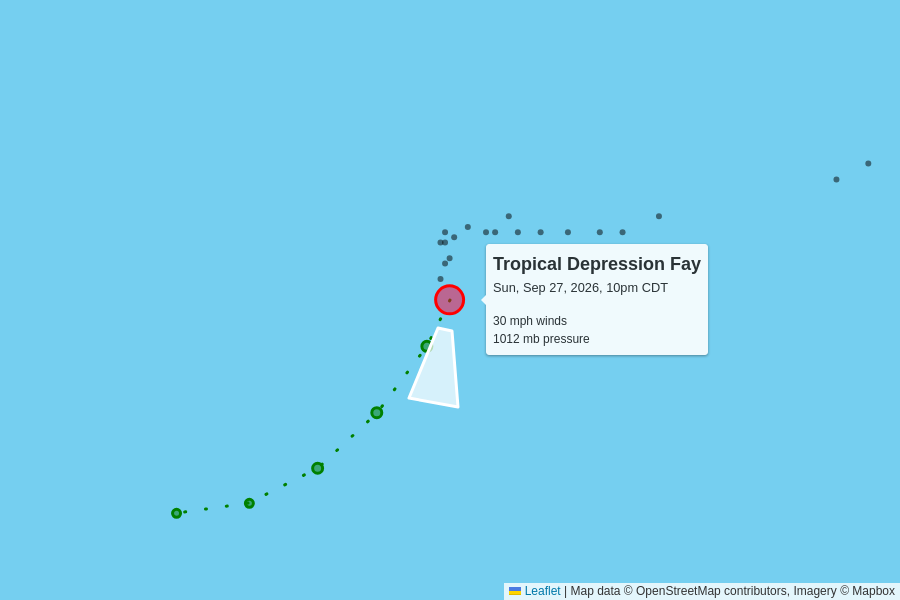
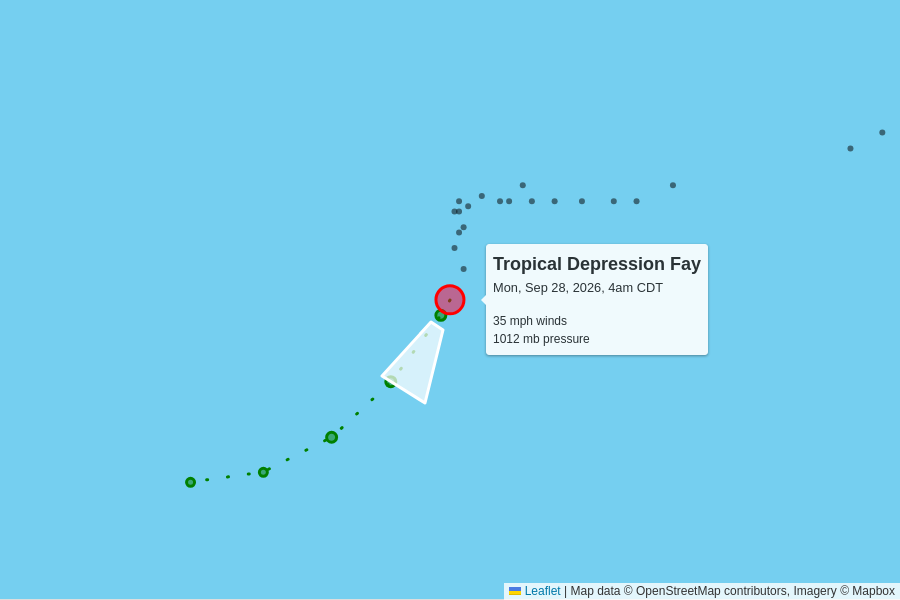
automatic update

diff --git a/docs/2026.html b/docs/2026.html
@@ -45,13 +45,13 @@
       <grid-container>
           <grid-row>
             <script type="text/json" id="storm_data_AL062026">
-              {"pressure":[{"timestamp":"2026-09-19T15:00:00.000Z","value":1009},{"timestamp":"2026-09-19T21:00:00.000Z","value":1007},{"timestamp":"2026-09-20T03:00:00.000Z","value":1007},{"timestamp":"2026-09-20T09:00:00.000Z","value":1004},{"timestamp":"2026-09-20T15:00:00.000Z","value":1004},{"timestamp":"2026-09-20T21:00:00.000Z","value":999},{"timestamp":"2026-09-21T03:00:00.000Z","value":995},{"timestamp":"2026-09-21T09:00:00.000Z","value":997},{"timestamp":"2026-09-21T15:00:00.000Z","value":1000},{"timestamp":"2026-09-21T21:00:00.000Z","value":1004},{"timestamp":"2026-09-22T03:00:00.000Z","value":1008},{"timestamp":"2026-09-22T09:00:00.000Z","value":1009},{"timestamp":"2026-09-22T15:00:00.000Z","value":1010},{"timestamp":"2026-09-22T21:00:00.000Z","value":1011},{"timestamp":"2026-09-23T21:00:00.000Z","value":1011},{"timestamp":"2026-09-24T03:00:00.000Z","value":1010},{"timestamp":"2026-09-24T09:00:00.000Z","value":1010},{"timestamp":"2026-09-24T15:00:00.000Z","value":1005},{"timestamp":"2026-09-24T21:00:00.000Z","value":1005},{"timestamp":"2026-09-25T03:00:00.000Z","value":1005},{"timestamp":"2026-09-25T09:00:00.000Z","value":1004},{"timestamp":"2026-09-25T15:00:00.000Z","value":1002},{"timestamp":"2026-09-25T21:00:00.000Z","value":1004},{"timestamp":"2026-09-26T03:00:00.000Z","value":1006},{"timestamp":"2026-09-26T09:00:00.000Z","value":1009},{"timestamp":"2026-09-26T15:00:00.000Z","value":1009},{"timestamp":"2026-09-26T21:00:00.000Z","value":1009},{"timestamp":"2026-09-27T03:00:00.000Z","value":1010},{"timestamp":"2026-09-27T09:00:00.000Z","value":1010},{"timestamp":"2026-09-27T15:00:00.000Z","value":1010},{"timestamp":"2026-09-27T21:00:00.000Z","value":1011},{"timestamp":"2026-09-28T03:00:00.000Z","value":1012}],"wind":[{"timestamp":"2026-09-19T15:00:00.000Z","value":35},{"timestamp":"2026-09-19T21:00:00.000Z","value":35},{"timestamp":"2026-09-20T03:00:00.000Z","value":35},{"timestamp":"2026-09-20T09:00:00.000Z","value":45},{"timestamp":"2026-09-20T15:00:00.000Z","value":60},{"timestamp":"2026-09-20T21:00:00.000Z","value":65},{"timestamp":"2026-09-21T03:00:00.000Z","value":70},{"timestamp":"2026-09-21T09:00:00.000Z","value":65},{"timestamp":"2026-09-21T15:00:00.000Z","value":50},{"timestamp":"2026-09-21T21:00:00.000Z","value":45},{"timestamp":"2026-09-22T03:00:00.000Z","value":40},{"timestamp":"2026-09-22T09:00:00.000Z","value":40},{"timestamp":"2026-09-22T15:00:00.000Z","value":35},{"timestamp":"2026-09-22T21:00:00.000Z","value":35},{"timestamp":"2026-09-23T21:00:00.000Z","value":35},{"timestamp":"2026-09-24T03:00:00.000Z","value":40},{"timestamp":"2026-09-24T09:00:00.000Z","value":40},{"timestamp":"2026-09-24T15:00:00.000Z","value":50},{"timestamp":"2026-09-24T21:00:00.000Z","value":50},{"timestamp":"2026-09-25T03:00:00.000Z","value":50},{"timestamp":"2026-09-25T09:00:00.000Z","value":50},{"timestamp":"2026-09-25T15:00:00.000Z","value":60},{"timestamp":"2026-09-25T21:00:00.000Z","value":50},{"timestamp":"2026-09-26T03:00:00.000Z","value":40},{"timestamp":"2026-09-26T09:00:00.000Z","value":35},{"timestamp":"2026-09-26T15:00:00.000Z","value":35},{"timestamp":"2026-09-26T21:00:00.000Z","value":35},{"timestamp":"2026-09-27T03:00:00.000Z","value":35},{"timestamp":"2026-09-27T09:00:00.000Z","value":35},{"timestamp":"2026-09-27T15:00:00.000Z","value":35},{"timestamp":"2026-09-27T21:00:00.000Z","value":35},{"timestamp":"2026-09-28T03:00:00.000Z","value":30}]}
+              {"pressure":[{"timestamp":"2026-09-19T15:00:00.000Z","value":1009},{"timestamp":"2026-09-19T21:00:00.000Z","value":1007},{"timestamp":"2026-09-20T03:00:00.000Z","value":1007},{"timestamp":"2026-09-20T09:00:00.000Z","value":1004},{"timestamp":"2026-09-20T15:00:00.000Z","value":1004},{"timestamp":"2026-09-20T21:00:00.000Z","value":999},{"timestamp":"2026-09-21T03:00:00.000Z","value":995},{"timestamp":"2026-09-21T09:00:00.000Z","value":997},{"timestamp":"2026-09-21T15:00:00.000Z","value":1000},{"timestamp":"2026-09-21T21:00:00.000Z","value":1004},{"timestamp":"2026-09-22T03:00:00.000Z","value":1008},{"timestamp":"2026-09-22T09:00:00.000Z","value":1009},{"timestamp":"2026-09-22T15:00:00.000Z","value":1010},{"timestamp":"2026-09-22T21:00:00.000Z","value":1011},{"timestamp":"2026-09-23T21:00:00.000Z","value":1011},{"timestamp":"2026-09-24T03:00:00.000Z","value":1010},{"timestamp":"2026-09-24T09:00:00.000Z","value":1010},{"timestamp":"2026-09-24T15:00:00.000Z","value":1005},{"timestamp":"2026-09-24T21:00:00.000Z","value":1005},{"timestamp":"2026-09-25T03:00:00.000Z","value":1005},{"timestamp":"2026-09-25T09:00:00.000Z","value":1004},{"timestamp":"2026-09-25T15:00:00.000Z","value":1002},{"timestamp":"2026-09-25T21:00:00.000Z","value":1004},{"timestamp":"2026-09-26T03:00:00.000Z","value":1006},{"timestamp":"2026-09-26T09:00:00.000Z","value":1009},{"timestamp":"2026-09-26T15:00:00.000Z","value":1009},{"timestamp":"2026-09-26T21:00:00.000Z","value":1009},{"timestamp":"2026-09-27T03:00:00.000Z","value":1010},{"timestamp":"2026-09-27T09:00:00.000Z","value":1010},{"timestamp":"2026-09-27T15:00:00.000Z","value":1010},{"timestamp":"2026-09-27T21:00:00.000Z","value":1011},{"timestamp":"2026-09-28T03:00:00.000Z","value":1012},{"timestamp":"2026-09-28T09:00:00.000Z","value":1012}],"wind":[{"timestamp":"2026-09-19T15:00:00.000Z","value":35},{"timestamp":"2026-09-19T21:00:00.000Z","value":35},{"timestamp":"2026-09-20T03:00:00.000Z","value":35},{"timestamp":"2026-09-20T09:00:00.000Z","value":45},{"timestamp":"2026-09-20T15:00:00.000Z","value":60},{"timestamp":"2026-09-20T21:00:00.000Z","value":65},{"timestamp":"2026-09-21T03:00:00.000Z","value":70},{"timestamp":"2026-09-21T09:00:00.000Z","value":65},{"timestamp":"2026-09-21T15:00:00.000Z","value":50},{"timestamp":"2026-09-21T21:00:00.000Z","value":45},{"timestamp":"2026-09-22T03:00:00.000Z","value":40},{"timestamp":"2026-09-22T09:00:00.000Z","value":40},{"timestamp":"2026-09-22T15:00:00.000Z","value":35},{"timestamp":"2026-09-22T21:00:00.000Z","value":35},{"timestamp":"2026-09-23T21:00:00.000Z","value":35},{"timestamp":"2026-09-24T03:00:00.000Z","value":40},{"timestamp":"2026-09-24T09:00:00.000Z","value":40},{"timestamp":"2026-09-24T15:00:00.000Z","value":50},{"timestamp":"2026-09-24T21:00:00.000Z","value":50},{"timestamp":"2026-09-25T03:00:00.000Z","value":50},{"timestamp":"2026-09-25T09:00:00.000Z","value":50},{"timestamp":"2026-09-25T15:00:00.000Z","value":60},{"timestamp":"2026-09-25T21:00:00.000Z","value":50},{"timestamp":"2026-09-26T03:00:00.000Z","value":40},{"timestamp":"2026-09-26T09:00:00.000Z","value":35},{"timestamp":"2026-09-26T15:00:00.000Z","value":35},{"timestamp":"2026-09-26T21:00:00.000Z","value":35},{"timestamp":"2026-09-27T03:00:00.000Z","value":35},{"timestamp":"2026-09-27T09:00:00.000Z","value":35},{"timestamp":"2026-09-27T15:00:00.000Z","value":35},{"timestamp":"2026-09-27T21:00:00.000Z","value":35},{"timestamp":"2026-09-28T03:00:00.000Z","value":30},{"timestamp":"2026-09-28T09:00:00.000Z","value":35}]}
             </script>              <grid-container class="storm">
                 <grid-row onClick="toggle('storm_AL062026')">
                   <h2>
                     Tropical Depression Fay
                     <div class="updated">
-                      last updated <time datetime="2026-09-28T03:00:00.000Z">2026-09-28T03:00:00.000Z</time>
+                      last updated <time datetime="2026-09-28T09:00:00.000Z">2026-09-28T09:00:00.000Z</time>
                     </div>
                   </h2>
                 </grid-row>
@@ -67,19 +67,19 @@
                       </tr>
                       <tr>
                         <td>
-                          30 mph
+                          35 mph
                           <br>
-                          -5 mph since last update
+                          +5 mph since last update
                         </td>
                         <td>
                           1012 mb
                           <br>
-                          +1 mb since last update
+                          0 mb since last update
                         </td>
                         <td>
-                          6 mph to the south
+                          7 mph to the south-southwest
                           <br>
-                          <span style="display: inline-block; font-size: 1.5em; transform: rotate(190deg);">↑</span>
+                          <span style="display: inline-block; font-size: 1.5em; transform: rotate(210deg);">↑</span>
                         </td>
                         <td>
                           <a href="https://raw.githubusercontent.com/mgwalker/atlantic-hurricanes/main/data/csv/AL062026.csv">AL062026.csv</a>

diff --git a/docs/index.html b/docs/index.html
@@ -45,13 +45,13 @@
       <grid-container>
           <grid-row>
             <script type="text/json" id="storm_data_AL062026">
-              {"pressure":[{"timestamp":"2026-09-19T15:00:00.000Z","value":1009},{"timestamp":"2026-09-19T21:00:00.000Z","value":1007},{"timestamp":"2026-09-20T03:00:00.000Z","value":1007},{"timestamp":"2026-09-20T09:00:00.000Z","value":1004},{"timestamp":"2026-09-20T15:00:00.000Z","value":1004},{"timestamp":"2026-09-20T21:00:00.000Z","value":999},{"timestamp":"2026-09-21T03:00:00.000Z","value":995},{"timestamp":"2026-09-21T09:00:00.000Z","value":997},{"timestamp":"2026-09-21T15:00:00.000Z","value":1000},{"timestamp":"2026-09-21T21:00:00.000Z","value":1004},{"timestamp":"2026-09-22T03:00:00.000Z","value":1008},{"timestamp":"2026-09-22T09:00:00.000Z","value":1009},{"timestamp":"2026-09-22T15:00:00.000Z","value":1010},{"timestamp":"2026-09-22T21:00:00.000Z","value":1011},{"timestamp":"2026-09-23T21:00:00.000Z","value":1011},{"timestamp":"2026-09-24T03:00:00.000Z","value":1010},{"timestamp":"2026-09-24T09:00:00.000Z","value":1010},{"timestamp":"2026-09-24T15:00:00.000Z","value":1005},{"timestamp":"2026-09-24T21:00:00.000Z","value":1005},{"timestamp":"2026-09-25T03:00:00.000Z","value":1005},{"timestamp":"2026-09-25T09:00:00.000Z","value":1004},{"timestamp":"2026-09-25T15:00:00.000Z","value":1002},{"timestamp":"2026-09-25T21:00:00.000Z","value":1004},{"timestamp":"2026-09-26T03:00:00.000Z","value":1006},{"timestamp":"2026-09-26T09:00:00.000Z","value":1009},{"timestamp":"2026-09-26T15:00:00.000Z","value":1009},{"timestamp":"2026-09-26T21:00:00.000Z","value":1009},{"timestamp":"2026-09-27T03:00:00.000Z","value":1010},{"timestamp":"2026-09-27T09:00:00.000Z","value":1010},{"timestamp":"2026-09-27T15:00:00.000Z","value":1010},{"timestamp":"2026-09-27T21:00:00.000Z","value":1011},{"timestamp":"2026-09-28T03:00:00.000Z","value":1012}],"wind":[{"timestamp":"2026-09-19T15:00:00.000Z","value":35},{"timestamp":"2026-09-19T21:00:00.000Z","value":35},{"timestamp":"2026-09-20T03:00:00.000Z","value":35},{"timestamp":"2026-09-20T09:00:00.000Z","value":45},{"timestamp":"2026-09-20T15:00:00.000Z","value":60},{"timestamp":"2026-09-20T21:00:00.000Z","value":65},{"timestamp":"2026-09-21T03:00:00.000Z","value":70},{"timestamp":"2026-09-21T09:00:00.000Z","value":65},{"timestamp":"2026-09-21T15:00:00.000Z","value":50},{"timestamp":"2026-09-21T21:00:00.000Z","value":45},{"timestamp":"2026-09-22T03:00:00.000Z","value":40},{"timestamp":"2026-09-22T09:00:00.000Z","value":40},{"timestamp":"2026-09-22T15:00:00.000Z","value":35},{"timestamp":"2026-09-22T21:00:00.000Z","value":35},{"timestamp":"2026-09-23T21:00:00.000Z","value":35},{"timestamp":"2026-09-24T03:00:00.000Z","value":40},{"timestamp":"2026-09-24T09:00:00.000Z","value":40},{"timestamp":"2026-09-24T15:00:00.000Z","value":50},{"timestamp":"2026-09-24T21:00:00.000Z","value":50},{"timestamp":"2026-09-25T03:00:00.000Z","value":50},{"timestamp":"2026-09-25T09:00:00.000Z","value":50},{"timestamp":"2026-09-25T15:00:00.000Z","value":60},{"timestamp":"2026-09-25T21:00:00.000Z","value":50},{"timestamp":"2026-09-26T03:00:00.000Z","value":40},{"timestamp":"2026-09-26T09:00:00.000Z","value":35},{"timestamp":"2026-09-26T15:00:00.000Z","value":35},{"timestamp":"2026-09-26T21:00:00.000Z","value":35},{"timestamp":"2026-09-27T03:00:00.000Z","value":35},{"timestamp":"2026-09-27T09:00:00.000Z","value":35},{"timestamp":"2026-09-27T15:00:00.000Z","value":35},{"timestamp":"2026-09-27T21:00:00.000Z","value":35},{"timestamp":"2026-09-28T03:00:00.000Z","value":30}]}
+              {"pressure":[{"timestamp":"2026-09-19T15:00:00.000Z","value":1009},{"timestamp":"2026-09-19T21:00:00.000Z","value":1007},{"timestamp":"2026-09-20T03:00:00.000Z","value":1007},{"timestamp":"2026-09-20T09:00:00.000Z","value":1004},{"timestamp":"2026-09-20T15:00:00.000Z","value":1004},{"timestamp":"2026-09-20T21:00:00.000Z","value":999},{"timestamp":"2026-09-21T03:00:00.000Z","value":995},{"timestamp":"2026-09-21T09:00:00.000Z","value":997},{"timestamp":"2026-09-21T15:00:00.000Z","value":1000},{"timestamp":"2026-09-21T21:00:00.000Z","value":1004},{"timestamp":"2026-09-22T03:00:00.000Z","value":1008},{"timestamp":"2026-09-22T09:00:00.000Z","value":1009},{"timestamp":"2026-09-22T15:00:00.000Z","value":1010},{"timestamp":"2026-09-22T21:00:00.000Z","value":1011},{"timestamp":"2026-09-23T21:00:00.000Z","value":1011},{"timestamp":"2026-09-24T03:00:00.000Z","value":1010},{"timestamp":"2026-09-24T09:00:00.000Z","value":1010},{"timestamp":"2026-09-24T15:00:00.000Z","value":1005},{"timestamp":"2026-09-24T21:00:00.000Z","value":1005},{"timestamp":"2026-09-25T03:00:00.000Z","value":1005},{"timestamp":"2026-09-25T09:00:00.000Z","value":1004},{"timestamp":"2026-09-25T15:00:00.000Z","value":1002},{"timestamp":"2026-09-25T21:00:00.000Z","value":1004},{"timestamp":"2026-09-26T03:00:00.000Z","value":1006},{"timestamp":"2026-09-26T09:00:00.000Z","value":1009},{"timestamp":"2026-09-26T15:00:00.000Z","value":1009},{"timestamp":"2026-09-26T21:00:00.000Z","value":1009},{"timestamp":"2026-09-27T03:00:00.000Z","value":1010},{"timestamp":"2026-09-27T09:00:00.000Z","value":1010},{"timestamp":"2026-09-27T15:00:00.000Z","value":1010},{"timestamp":"2026-09-27T21:00:00.000Z","value":1011},{"timestamp":"2026-09-28T03:00:00.000Z","value":1012},{"timestamp":"2026-09-28T09:00:00.000Z","value":1012}],"wind":[{"timestamp":"2026-09-19T15:00:00.000Z","value":35},{"timestamp":"2026-09-19T21:00:00.000Z","value":35},{"timestamp":"2026-09-20T03:00:00.000Z","value":35},{"timestamp":"2026-09-20T09:00:00.000Z","value":45},{"timestamp":"2026-09-20T15:00:00.000Z","value":60},{"timestamp":"2026-09-20T21:00:00.000Z","value":65},{"timestamp":"2026-09-21T03:00:00.000Z","value":70},{"timestamp":"2026-09-21T09:00:00.000Z","value":65},{"timestamp":"2026-09-21T15:00:00.000Z","value":50},{"timestamp":"2026-09-21T21:00:00.000Z","value":45},{"timestamp":"2026-09-22T03:00:00.000Z","value":40},{"timestamp":"2026-09-22T09:00:00.000Z","value":40},{"timestamp":"2026-09-22T15:00:00.000Z","value":35},{"timestamp":"2026-09-22T21:00:00.000Z","value":35},{"timestamp":"2026-09-23T21:00:00.000Z","value":35},{"timestamp":"2026-09-24T03:00:00.000Z","value":40},{"timestamp":"2026-09-24T09:00:00.000Z","value":40},{"timestamp":"2026-09-24T15:00:00.000Z","value":50},{"timestamp":"2026-09-24T21:00:00.000Z","value":50},{"timestamp":"2026-09-25T03:00:00.000Z","value":50},{"timestamp":"2026-09-25T09:00:00.000Z","value":50},{"timestamp":"2026-09-25T15:00:00.000Z","value":60},{"timestamp":"2026-09-25T21:00:00.000Z","value":50},{"timestamp":"2026-09-26T03:00:00.000Z","value":40},{"timestamp":"2026-09-26T09:00:00.000Z","value":35},{"timestamp":"2026-09-26T15:00:00.000Z","value":35},{"timestamp":"2026-09-26T21:00:00.000Z","value":35},{"timestamp":"2026-09-27T03:00:00.000Z","value":35},{"timestamp":"2026-09-27T09:00:00.000Z","value":35},{"timestamp":"2026-09-27T15:00:00.000Z","value":35},{"timestamp":"2026-09-27T21:00:00.000Z","value":35},{"timestamp":"2026-09-28T03:00:00.000Z","value":30},{"timestamp":"2026-09-28T09:00:00.000Z","value":35}]}
             </script>              <grid-container class="storm">
                 <grid-row onClick="toggle('storm_AL062026')">
                   <h2>
                     Tropical Depression Fay
                     <div class="updated">
-                      last updated <time datetime="2026-09-28T03:00:00.000Z">2026-09-28T03:00:00.000Z</time>
+                      last updated <time datetime="2026-09-28T09:00:00.000Z">2026-09-28T09:00:00.000Z</time>
                     </div>
                   </h2>
                 </grid-row>
@@ -67,19 +67,19 @@
                       </tr>
                       <tr>
                         <td>
-                          30 mph
+                          35 mph
                           <br>
-                          -5 mph since last update
+                          +5 mph since last update
                         </td>
                         <td>
                           1012 mb
                           <br>
-                          +1 mb since last update
+                          0 mb since last update
                         </td>
                         <td>
-                          6 mph to the south
+                          7 mph to the south-southwest
                           <br>
-                          <span style="display: inline-block; font-size: 1.5em; transform: rotate(190deg);">↑</span>
+                          <span style="display: inline-block; font-size: 1.5em; transform: rotate(210deg);">↑</span>
                         </td>
                         <td>
                           <a href="https://raw.githubusercontent.com/mgwalker/atlantic-hurricanes/main/data/csv/AL062026.csv">AL062026.csv</a>
